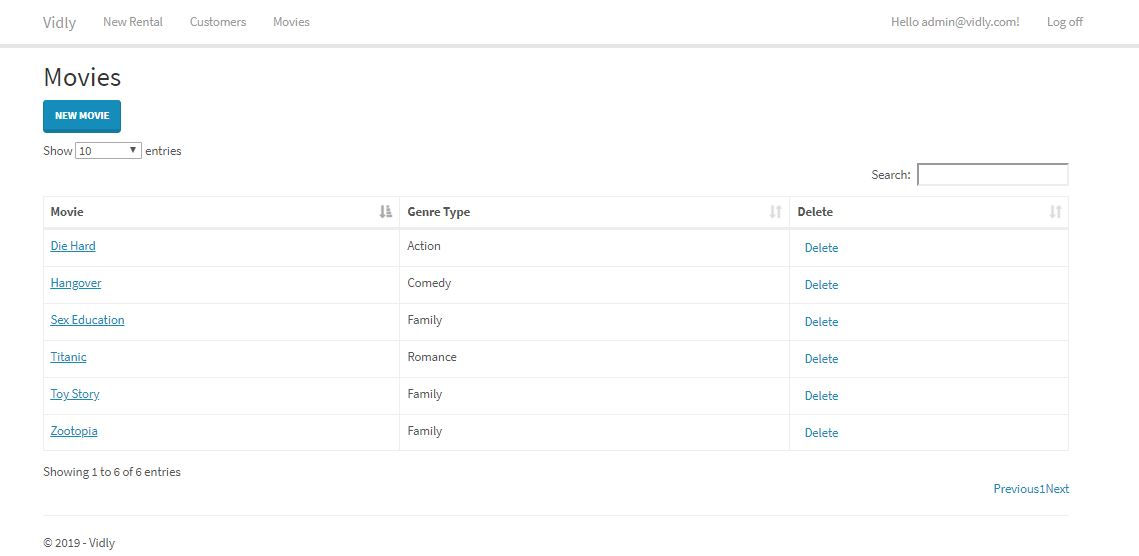
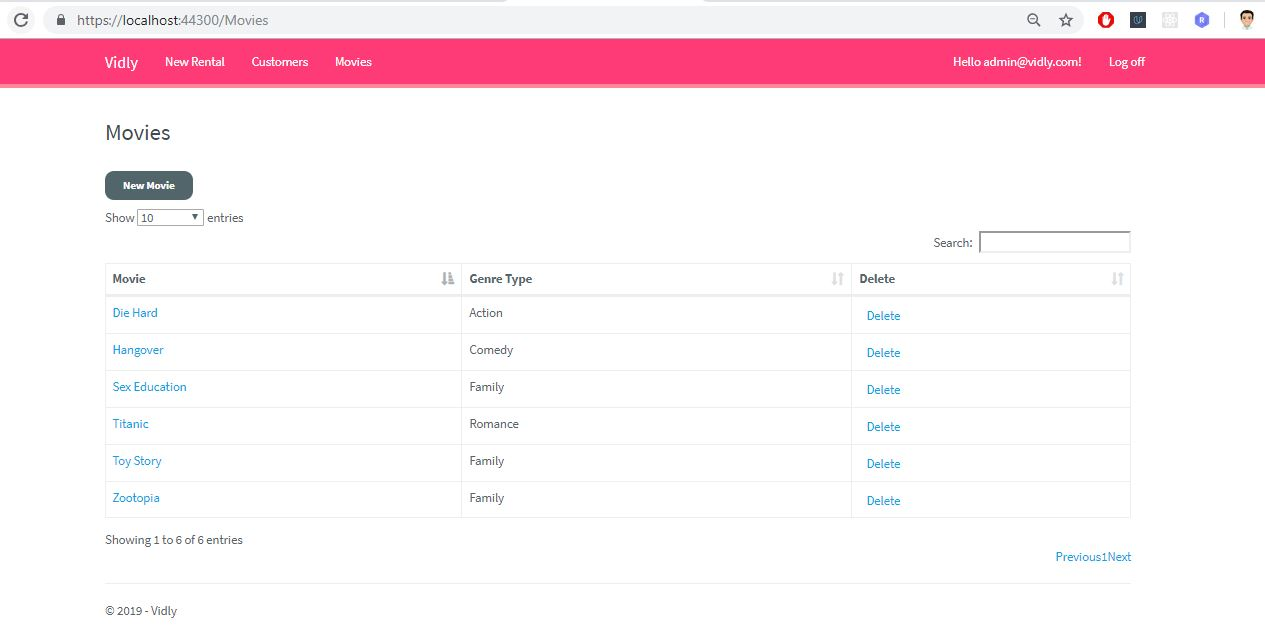
Update ReadMe

diff --git a/Vidly/Content/bootstrap-theme-mosh.css b/Vidly/Content/bootstrap-theme-mosh.css
@@ -1,0 +1,100 @@
+body {
+    color: #52656B;
+}
+
+h1, .h1, h2, .h2, h3, .h3 {
+    margin-bottom: 30px;
+}
+
+h1, h2, h3, h4, h5, h6, .h1, .h2, .h3, .h4, .h5, .h6 {
+    color: #3B4B50;
+}
+
+h2, .h2 {
+    font-size: 25px;
+}
+
+.body-content {
+    padding-top: 20px;
+}
+
+.navbar-inverse {
+    background-color: #FF3B77;
+    border-color: #FF8598;
+    color: #fff;
+}
+
+.navbar-inverse .navbar-nav > li > a {
+    color: #fff;
+    border-bottom: 3px solid transparent;
+    transition: border-bottom ease-in-out .15s;
+    padding-bottom: 10px;
+}
+
+.navbar-inverse .navbar-nav > li > a:hover, .navbar-inverse .navbar-nav > li > a:focus {
+    border-bottom: 3px solid #fff;
+    color: #fff;
+}
+
+.navbar-inverse .navbar-brand {
+    color: #fff;
+}
+
+.navbar-inverse .navbar-brand:hover, .navbar-inverse .navbar-brand:focus {
+    color: #860D32;
+    background-color: transparent;
+}
+
+a, .btn-link {
+    color: #09A7E4;
+}
+.btn {
+    border-radius: 10px;
+    text-transform: none;
+    font-weight: bold;
+    font-size: 12px;
+}
+
+.btn-primary {
+    color: #ffffff;
+    background-color: #52656B;
+    border: 0;
+    padding: 8px 20px;
+}
+
+.btn-primary:hover, .btn-primary:focus, .btn-primary:active, .btn-primary.active, .open > .dropdown-toggle.btn-primary {
+    color: #52656B;
+    background-color: #CDFF00;
+}
+
+.pagination > .active > a, .pagination > .active > span, .pagination > .active > a:hover, .pagination > .active > span:hover, .pagination > .active > a:focus, .pagination > .active > span:focus {
+    color: #ffffff;
+    background-color: #52656B;
+    border-color: #52656B;
+}
+
+.pagination > li > a, .pager > li > a, .pagination > li > span, .pager > li > span {
+    text-transform: none;
+}
+
+table a:not(.btn), .table a:not(.btn) {
+    text-decoration: none;
+}
+
+.form-control {
+    height: 41px;
+    -webkit-box-shadow: none;
+    box-shadow: none;
+    -webkit-transition: border-color ease-in-out .10s, box-shadow ease-in-out .15s;
+    -moz-transition: border-color ease-in-out .10s, box-shadow ease-in-out .15s;
+    -ms-transition: border-color ease-in-out .10s, box-shadow ease-in-out .15s;
+    -o-transition: border-color ease-in-out .10s, box-shadow ease-in-out .15s;
+    transition: border-color ease-in-out .10s, box-shadow ease-in-out .15s;
+    border-radius: 10px;
+}
+
+.form-control:focus {
+    -webkit-box-shadow: none;
+    box-shadow: none;
+    border: 2px solid #FF8598;
+}

diff --git a/Vidly/Content/typeahead-mosh.css b/Vidly/Content/typeahead-mosh.css
@@ -1,0 +1,62 @@
+.twitter-typeahead {
+    width: 300px;
+}
+
+.typeahead {
+  background-color: #fff;
+}
+
+.typeahead:focus {
+  border: 2px solid #0097cf;
+}
+
+.tt-query {
+  -webkit-box-shadow: inset 0 1px 1px rgba(0, 0, 0, 0.075);
+     -moz-box-shadow: inset 0 1px 1px rgba(0, 0, 0, 0.075);
+          box-shadow: inset 0 1px 1px rgba(0, 0, 0, 0.075);
+}
+
+.tt-hint {
+  color: #999
+}
+
+.tt-menu {
+  width: 422px;
+  margin: 12px 0;
+  padding: 8px 0;
+  background-color: #fff;
+  border: 1px solid #ccc;
+  border: 1px solid rgba(0, 0, 0, 0.2);
+  -webkit-border-radius: 8px;
+     -moz-border-radius: 8px;
+          border-radius: 8px;
+  -webkit-box-shadow: 0 5px 10px rgba(0,0,0,.2);
+     -moz-box-shadow: 0 5px 10px rgba(0,0,0,.2);
+          box-shadow: 0 5px 10px rgba(0,0,0,.2);
+}
+
+.tt-suggestion {
+  padding: 3px 20px;
+  font-size: 15px;
+  line-height: 24px;
+}
+
+.tt-suggestion:hover {
+  cursor: pointer;
+  color: #52656B;
+  background-color: #CDFF00;
+}
+
+.tt-suggestion.tt-cursor {
+  color: #52656B;
+  background-color: #CDFF00;
+
+}
+
+.tt-suggestion p {
+  margin: 0;
+}
+
+.tt-container {
+    position: relative;
+}

diff --git a/Vidly/404.html b/Vidly/404.html
@@ -1,0 +1,10 @@
+<!DOCTYPE html>
+<html>
+<head>
+    <meta charset="utf-8" />
+    <title></title>
+</head>
+<body>
+    <h1>Not Found</h1>
+</body>
+</html>

diff --git a/Vidly/App_Start/Startup.Auth.cs b/Vidly/App_Start/Startup.Auth.cs
@@ -9,6 +9,8 @@ using Vidly.Models;
 
 namespace Vidly
 {
+    using System.Configuration;
+
     public partial class Startup
     {
         // For more information on configuring authentication, please visit https://go.microsoft.com/fwlink/?LinkId=301864
@@ -54,9 +56,9 @@ namespace Vidly
             //   consumerKey: "",
             //   consumerSecret: "");
 
-            //app.UseFacebookAuthentication(
-            //   appId: "",
-            //   appSecret: "");
+            app.UseFacebookAuthentication(
+               appId: ConfigurationManager.AppSettings["FacebookAppId"],
+               appSecret: ConfigurationManager.AppSettings["FacebookAppSecret"]);
 
             //app.UseGoogleAuthentication(new GoogleOAuth2AuthenticationOptions()
             //{

diff --git a/Vidly/App_Start/BundleConfig.cs b/Vidly/App_Start/BundleConfig.cs
@@ -28,8 +28,9 @@ namespace Vidly
 
             bundles.Add(new StyleBundle("~/Content/css").Include(
                       "~/Content/bootstrap-lumen.css",
+                      "~/Content/bootstrap-theme-mosh.css",
                       "~/Content/datatables/css/datatables.bootstrap.css",
-                      "~/Content/typeahead.css",
+                      "~/Content/typeahead-mosh.css",
                       "~/Content/toastr.css",
                       "~/Content/site.css"));
         }

diff --git a/Vidly/Controllers/HomeController.cs b/Vidly/Controllers/HomeController.cs
@@ -16,6 +16,7 @@ namespace Vidly.Controllers
 
         public ActionResult About()
         {
+            throw new Exception();
             ViewBag.Message = "Your application description page.";
 
             return View();
